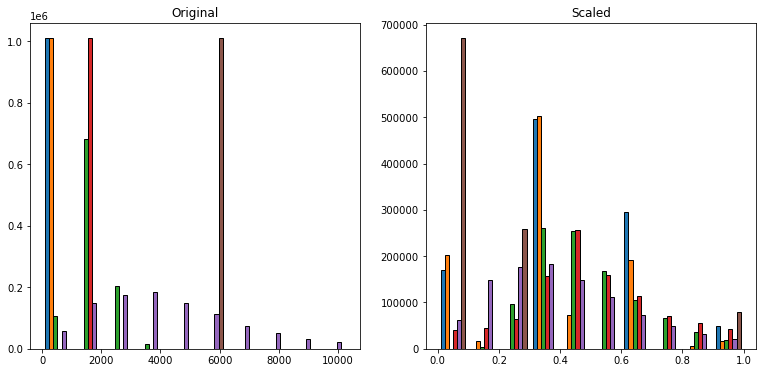
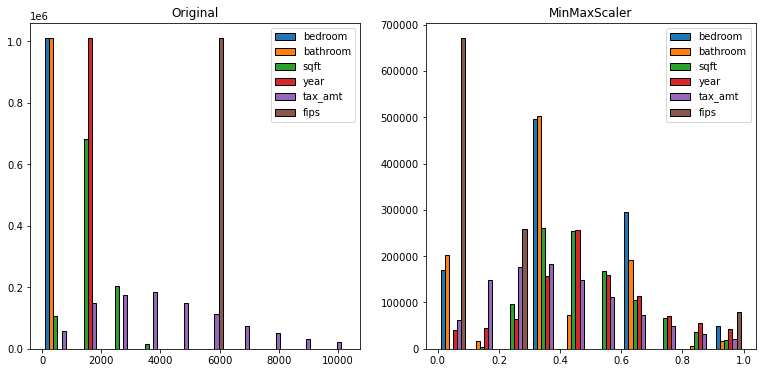
Added legend to visualizations

Changed region(s): [[0.8753, 0.0885, 0.9961, 0.3244], [0.3622, 0.059, 0.4829, 0.3244], [0.7244, 0.0, 0.8451, 0.059]]

diff --git a/prepare.py b/prepare.py
@@ -92,11 +92,13 @@ def scale_data(train, validate, test, scaler, target):
 
     plt.figure(figsize=(13, 6))
     plt.subplot(121)
-    plt.hist(x_train, ec='black')
+    plt.hist(x_train, ec='black', label=x_cols)
     plt.title('Original')
+    plt.legend()
     plt.subplot(122)
-    plt.hist(x_train_scaled, ec='black')
+    plt2 = plt.hist(x_train_scaled, ec='black', label=x_cols)
     plt.title(name)
+    plt.legend()
 
     return x_train_scaled, y_train, x_validate_scaled, y_validate, x_test_scaled, y_test
 
